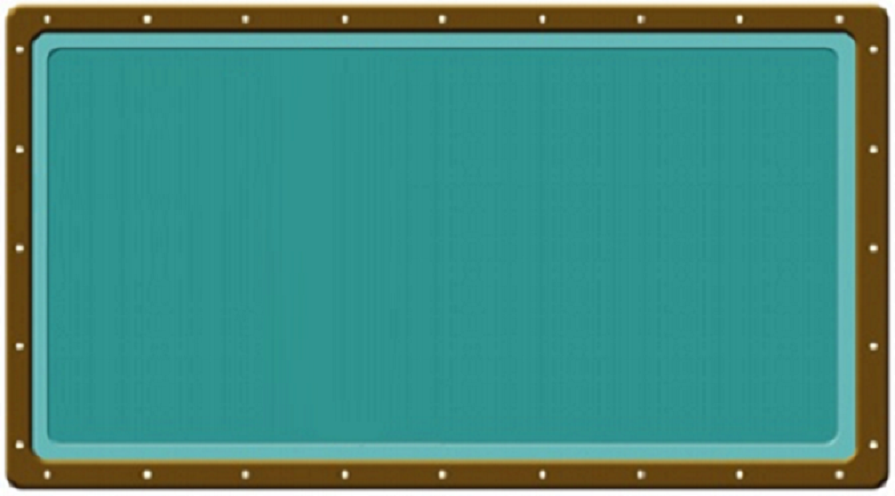
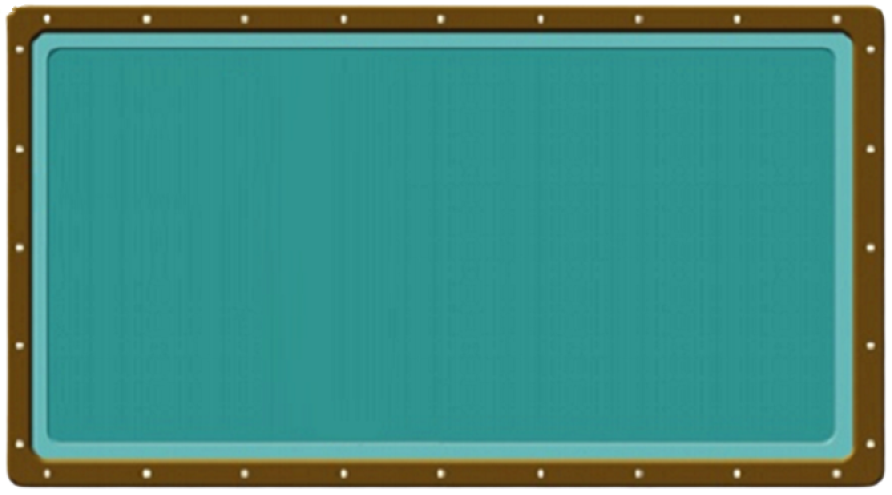
배경 중 당구대 추가

Changed region(s): [[0.0, 0.0, 0.9989, 1.0]]

diff --git a/Game/background.py b/Game/background.py
@@ -1,14 +1,24 @@
+# #####
+# background.py: 배경 클래스가 구현되어 있는 파일.
+# #####
 from pico2d import load_image
 
 class Background:
-    image = None
+
+    # 이미지 변수
+    image_background = None
+    image_board = None
 
     def __init__(self):
-        if self.image == None:
-            self.image = load_image('image_background_playing.jpg')
+        if self.image_background == None:
+            self.image_background = load_image('image_background_playing.jpg')
+
+        if self.image_board == None:
+            self.image_board = load_image('image_board.png')
 
     def draw(self):
-        self.image.draw(1280 // 2, 960 // 2)
+        self.image_background.draw(1280 // 2, 960 // 2)
+        self.image_board.draw(1280 // 2, 960 // 2)
 
     def update(self):
         pass
